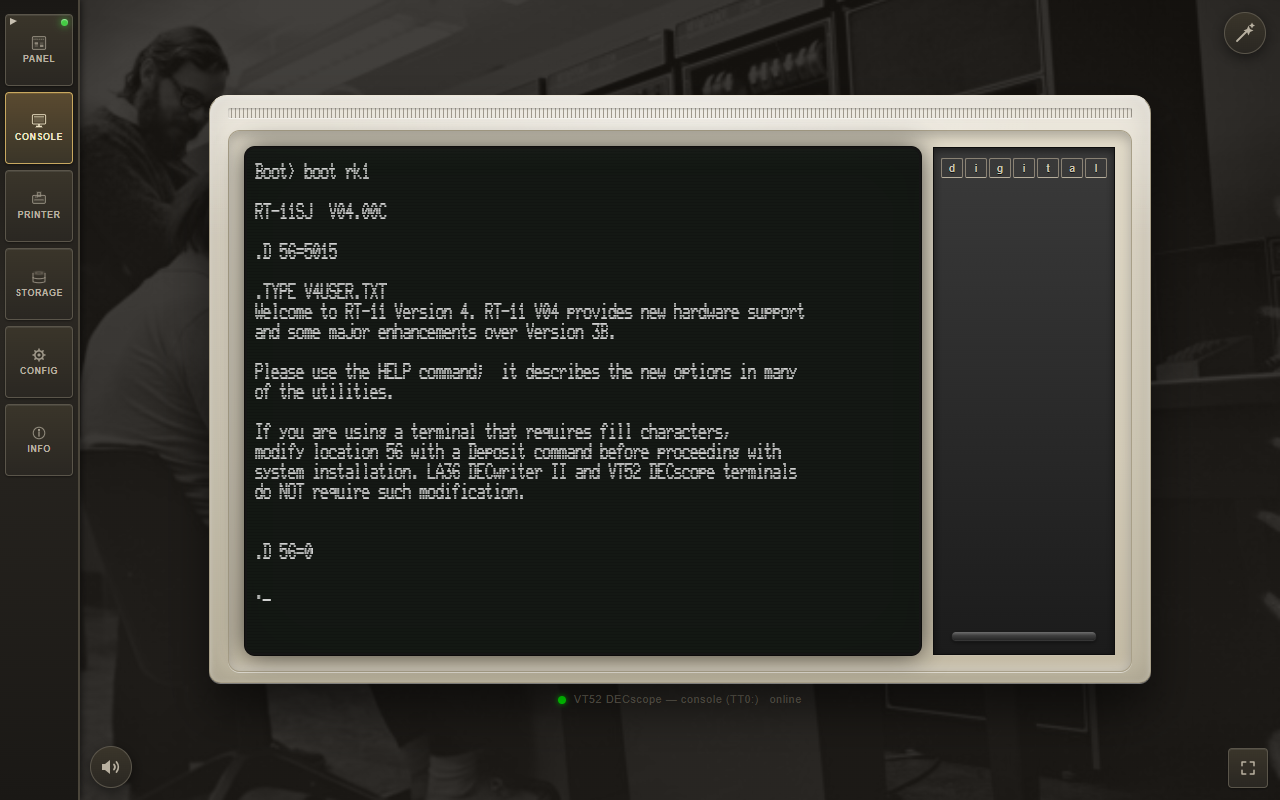
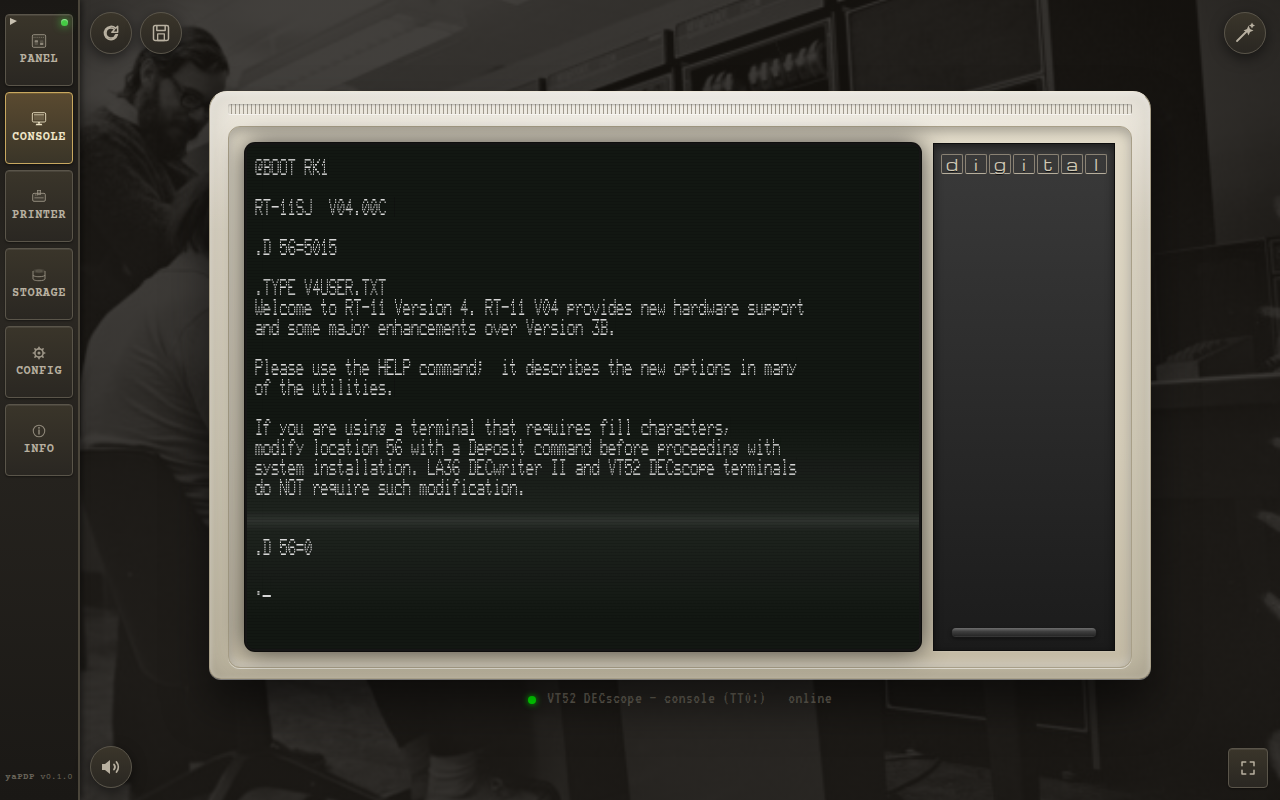
fix: enable ?bridge=1 in screenshots-os so OS readiness markers are seen; regenerate OS carousel shots

diff --git a/tools/screenshots-os.js b/tools/screenshots-os.js
@@ -39,7 +39,24 @@ const puppeteer = require("puppeteer-core");
 const consoleWait = require("./console-wait");
 
 const ROOT = path.resolve(__dirname, "..");
-const OUT_DIR = path.join(ROOT, "assets", "images", "os");
+// Write each shot to every tracked OS-image directory (repo-root canonical
+// copy + the React landing mirror) so the OS carousel never drifts from the
+// emulator's own copy.
+const OUT_DIRS = [
+    path.join(ROOT, "assets", "images", "os"),
+    path.join(ROOT, "landing", "public", "assets", "images", "os")
+];
+
+// Write one PNG into every OUT_DIR under the given file name, making the
+// parent directory on demand. Returns the canonical (first) path.
+function writeShot(fileName, buf) {
+    const canonical = path.join(OUT_DIRS[0], fileName);
+    for (const dir of OUT_DIRS) {
+        fs.mkdirSync(dir, { recursive: true });
+        fs.writeFileSync(path.join(dir, fileName), buf);
+    }
+    return canonical;
+}
 const PORT = 11790;
 const BASE = `http://127.0.0.1:${PORT}`;
 
@@ -163,12 +180,16 @@ function findBrowserExecutable() {
 
 async function launchBrowser() {
     const executablePath = findBrowserExecutable();
+    // Sandboxed CI/container environments (no unprivileged user namespaces)
+    // need --no-sandbox; opt in via PUPPETEER_NO_SANDBOX=1 so desktop runs
+    // keep the default sandbox.
+    const args = process.env.PUPPETEER_NO_SANDBOX ? ["--no-sandbox"] : [];
     if (executablePath) {
-        return puppeteer.launch({ executablePath, headless: true });
+        return puppeteer.launch({ executablePath, headless: true, args });
     }
     for (const channel of ["msedge", "chrome"]) {
         try {
-            return await puppeteer.launch({ channel, headless: true });
+            return await puppeteer.launch({ channel, headless: true, args });
         } catch (err) { /* try the next channel */ }
     }
     throw new Error(
@@ -215,7 +236,7 @@ async function openPage(browser, shot) {
         } catch (err) { /* ignore storage errors */ }
     }, { cfg });
 
-    await page.goto(`${BASE}/pdp11.html`, { waitUntil: "load", timeout: 90000 });
+    await page.goto(`${BASE}/pdp11.html?bridge=1`, { waitUntil: "load", timeout: 90000 });
     await page.waitForFunction(() => typeof window.switchPage === "function",
         { timeout: 30000 });
     try {
@@ -366,8 +387,8 @@ async function captureConsoleOS(browser, shot) {
 
         await sleep(shot.settle || 2000);
 
-        const file = path.join(OUT_DIR, shot.file);
-        await page.screenshot({ path: file, type: "png" });
+        const png = await page.screenshot({ type: "png" });
+        const file = writeShot(shot.file, png);
         const kb = Math.round(fs.statSync(file).size / 1024);
         console.log(`  saved ${shot.file} (${kb} kB)`);
     } finally {
@@ -437,8 +458,8 @@ async function captureLander(browser, shot) {
         await page.evaluate(() => window.switchPage("vt11"));
         await sleep(1500);
 
-        const file = path.join(OUT_DIR, shot.file);
-        await page.screenshot({ path: file, type: "png" });
+        const png = await page.screenshot({ type: "png" });
+        const file = writeShot(shot.file, png);
         const kb = Math.round(fs.statSync(file).size / 1024);
         console.log(`  saved ${shot.file} (${kb} kB)`);
     } finally {
@@ -457,7 +478,7 @@ async function captureLander(browser, shot) {
         // slow shot (e.g. Lunar Lander) does not force the whole batch.
         const selector = (process.argv[2] || "").toLowerCase().replace(/\.png$/, "");
 
-        fs.mkdirSync(OUT_DIR, { recursive: true });
+        for (const dir of OUT_DIRS) fs.mkdirSync(dir, { recursive: true });
         server = await ensureServer();
         browser = await launchBrowser();
 
@@ -476,7 +497,7 @@ async function captureLander(browser, shot) {
         }
 
         console.log("\nDone. Screenshots written to " +
-            path.relative(ROOT, OUT_DIR) + ".");
+            OUT_DIRS.map((d) => path.relative(ROOT, d)).join(" and ") + ".");
     } catch (err) {
         console.error(err.message);
         process.exitCode = 1;
